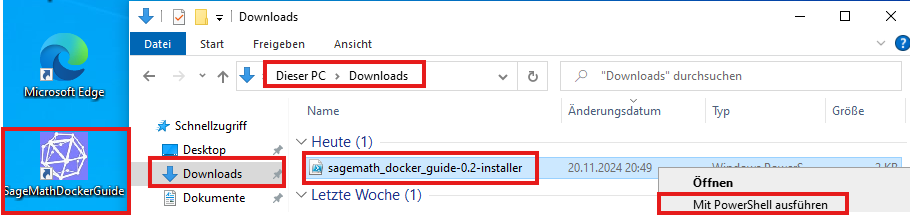
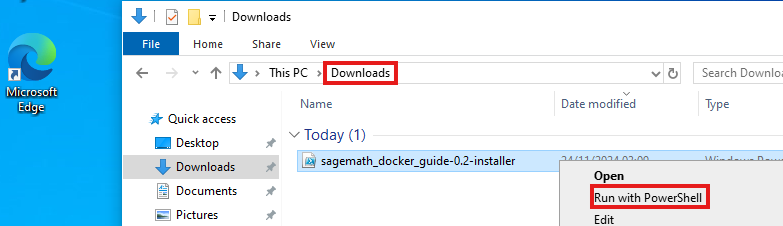
Update screenshots

diff --git a/README.md b/README.md
@@ -43,7 +43,7 @@ Download [sagemath_docker_guide-installer](https://github.com/soehms/projects_do
 
 ![Run with Powershell](screenshots/RunWithPowershell.png)
 
-If this does not work, open a Powershell terminal and execute the following code there:
+If you are asked to agree to open the file, just do it! If this does not work, open a Powershell terminal and execute the following code there:
 
 ```
 Set-ExecutionPolicy Bypass -Scope  Process -Force
@@ -56,7 +56,7 @@ Here it is asumed that you have downloaded the installer to your default `Downlo
 
 To open such a Powershell terminal push the Windows key, type `powershell` into the search field and launch the suggested app. If the installer was successful, you should see a SageMath icon (labeled *SageMath Docker Guide*) on your desktop. Simply click on the icon to launch the application.
 
-![Launch SageMath Docker Guide](screenshots/InstallPlusFirstDownload.png)
+![Launch SageMath Docker Guide](screenshots/IconInstalled.png)
 
 ## 2. Usage <a name="2."></a>
 
